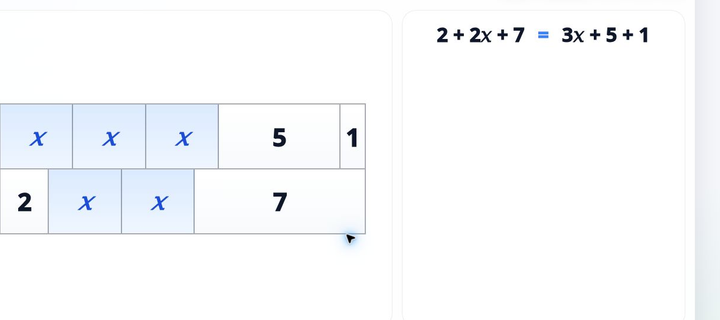
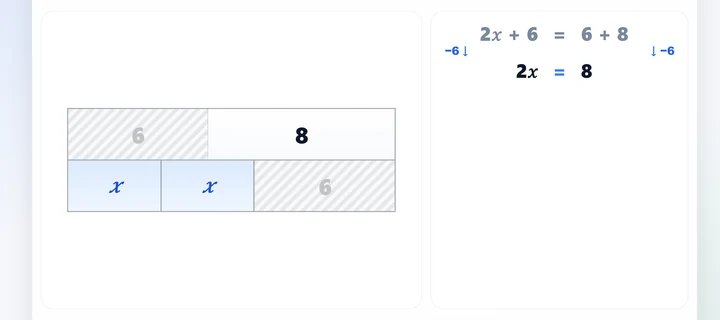
La miniature d'ÉquaBarre perd le pointeur de souris et rentre dans le format de la famille
Le pointeur de la souris était resté dans la capture. Il ne se voyait pas dans
le PNG, qui est propre, mais le catalogue sert le WebP à tous les navigateurs
modernes (balise <picture>) — et c'est celui-là qui l'avait, en bas à droite du
tableau. C'est cette image que Gwenaël voyait sur le site.

La nouvelle paire est rendue par le navigateur piloté, sans capture manuelle :
aucun curseur ne peut s'y glisser. Elle montre l'outil au travail — le tableau
en barres à gauche, la rédaction à droite avec l'opération « −6 ↓ » — au lieu
d'une équation intacte et d'une moitié de vignette vide.

Au passage, le PNG rentre dans le format de la famille : 720 × 320 comme
ÉquaSplat et Petit Splat, au lieu de 2048 × 950. Il pèse 33 ko (89 avant) et le
WebP 5 ko (20 avant), la garde « le WebP doit alléger le PNG » reste vraie.

Cache-busters bumpés des deux côtés, sinon personne ne verrait le changement :
la miniature passe en ?v=4 et catalogue-refonte-data.js en
miniature-equabarre-20260823-1, avec son épingle de test.

Vérifié au navigateur : la carte sert bien equabarre.webp?v=4 en 720 × 320.
1768 tests verts.

diff --git a/outils/index.html b/outils/index.html
@@ -31,7 +31,7 @@
   <link rel="stylesheet" href="../assets/css/catalogue-refonte.css?v=splat-universe-20260820-2">
   <link rel="stylesheet" href="../assets/css/consentement.css">
   <script defer src="../assets/js/consentement.js"></script>
-  <script defer src="../assets/js/catalogue-refonte-data.js?v=splat-progression-20260821-1"></script>
+  <script defer src="../assets/js/catalogue-refonte-data.js?v=miniature-equabarre-20260823-1"></script>
   <script defer src="../assets/js/mathsgo-icon-library.js?v=icons-library-20260820-1"></script>
   <script defer src="../assets/js/daily-metronome.js?v=20260719-1"></script>
   <script defer src="../assets/js/mathgo-generative-icons.js?v=20260716-1"></script>

diff --git a/assets/js/catalogue-refonte-data.js b/assets/js/catalogue-refonte-data.js
@@ -239,7 +239,7 @@ window.MATHSGO_CATALOGUE = {
       "primaryGroup": "manipuler",
       "collections": [],
       "tags": ["schema-barres", "equation", "inconnue"],
-      "thumbnail": "assets/img/thumbnails/splat/equabarre.png?v=3",
+      "thumbnail": "assets/img/thumbnails/splat/equabarre.png?v=4",
       "cardDescription": "Représenter une équation par deux schémas en barres et transformer les deux membres pas à pas."
     },
     "outils/equasplat.html": {
